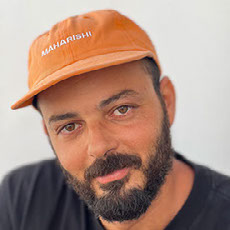
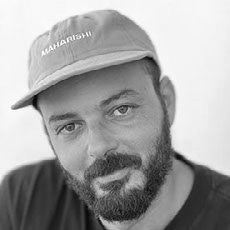
team - karim image grayscale

diff --git a/content/md/de/team.md b/content/md/de/team.md
@@ -68,11 +68,12 @@
     </div>
     <div class="team-member">
         <div class="member-info">
-            <a href="https://www.zew.de/{{curLg|safe}}/team/cmb">Carlo Birkholz </a>  <br> 
-            Wissenschaftler  
+            <a href="https://karimlahlou.myportfolio.com/" target="_karim" > 
+                Karim Lahlou </a> <br> 
+                Freelance Senior Art Director, Morocco
         </div>
         <div class="member-photo">
-            <img src="/static/img/md/cmb.jpg">
+            <img src="/static/img/md/karim-lahlou.jpg">
         </div>
     </div>
     <div class="team-member">

diff --git a/content/md/en/team.md b/content/md/en/team.md
@@ -68,8 +68,9 @@
     </div>
     <div class="team-member">
         <div class="member-info">
-            <a href="https://karimlahlou.myportfolio.com/" target="_karim" >Karim Lahlou </a> <br> 
-            Artist 
+            <a href="https://karimlahlou.myportfolio.com/" target="_karim" > 
+                Karim Lahlou </a> <br> 
+                Freelance Senior Art Director, Morocco
         </div>
         <div class="member-photo">
             <img src="/static/img/md/karim-lahlou.jpg">
